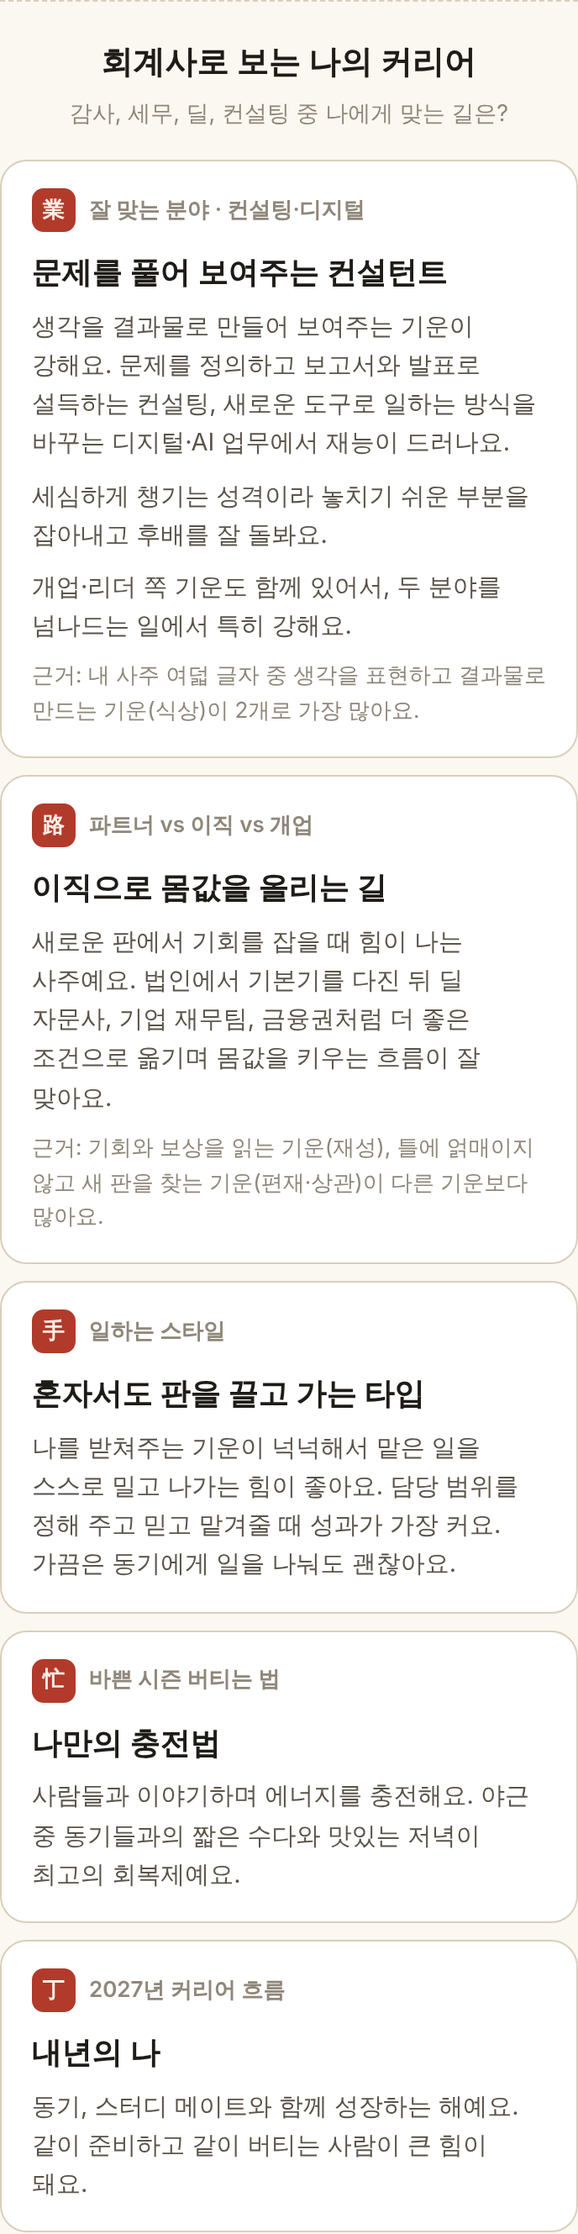
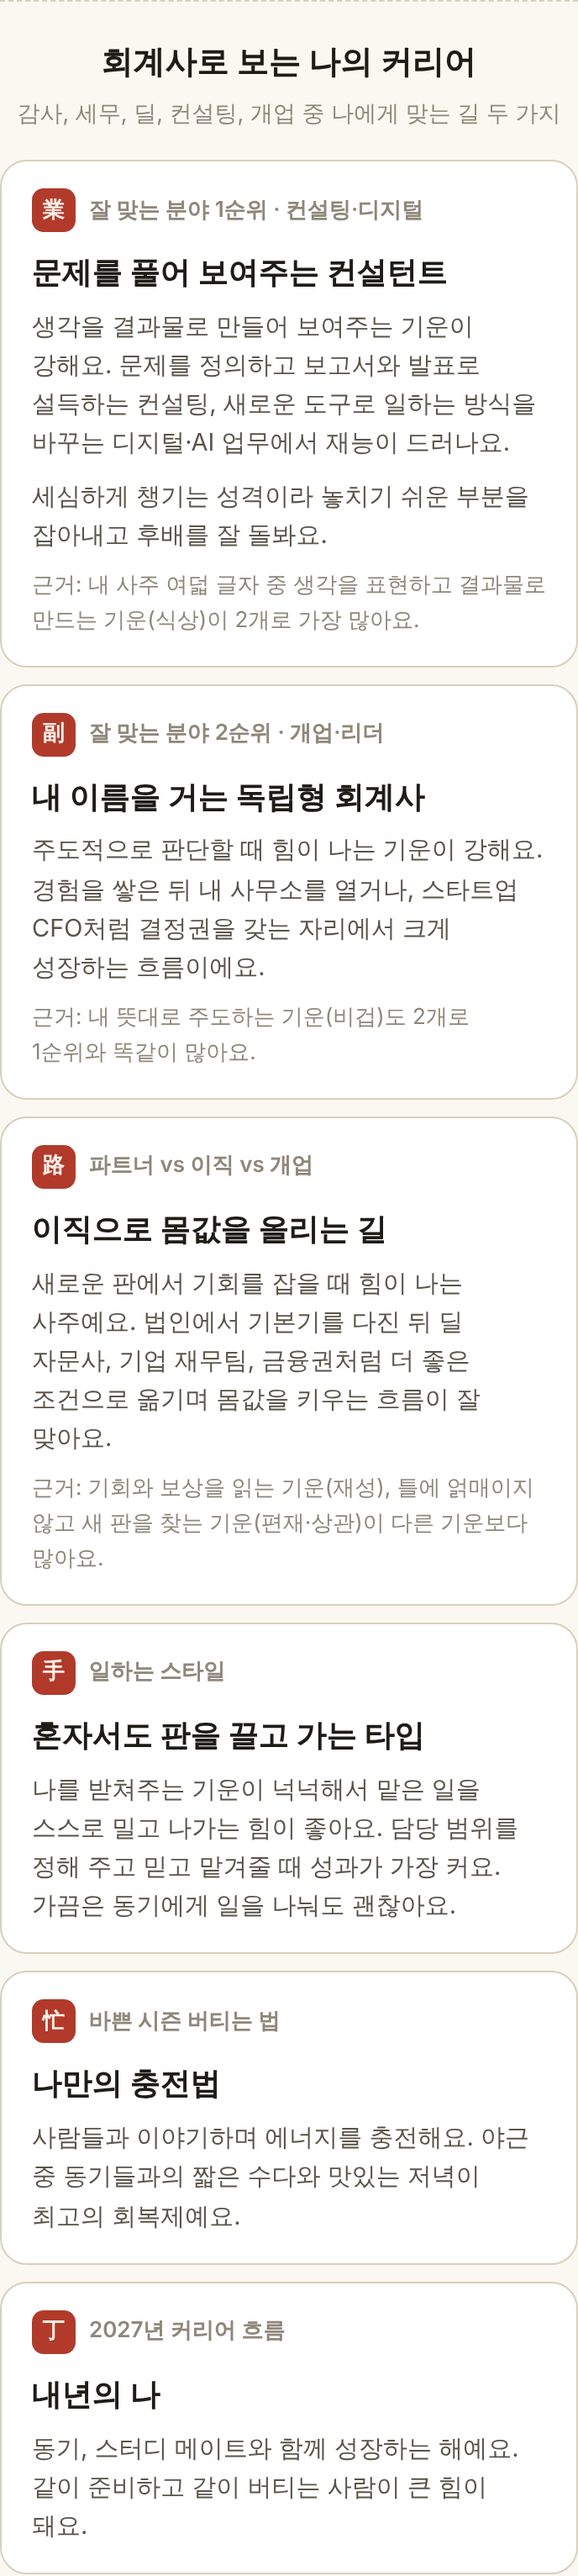
잘 맞는 회계사 분야를 1·2순위 두 개로 보여주기
Claude-Session: https://claude.ai/code/session_012bKZfKa4NxDtXrmtTF5ER5

diff --git a/lib/career.js b/lib/career.js
@@ -154,20 +154,28 @@ function careerPath(saju, counts, gods) {
 export function readCareer(saju) {
   const { counts, gods } = countGroups(saju);
   const ranked = [...ORDER].sort((a, b) => counts[b] - counts[a]);
-  const top = counts[ranked[0]] > 0 ? ranked[0] : '관성';
-  const second = ranked.find((g) => g !== top && counts[g] > 0);
-
-  const field = FIELD[top];
-  const extra = second
-    ? `${FIELD[second].name} 쪽 기운도 함께 있어서, 두 분야를 넘나드는 일에서 특히 강해요.`
-    : '';
+  // 가장 많은 기운과 두 번째로 많은 기운으로 잘 맞는 분야 2개를 고른다
+  const [top, second] = ranked;
+  const fields = [top, second].map((g, i) => ({
+    rank: i + 1,
+    label: FIELD[g].name,
+    title: FIELD[g].title,
+    body: FIELD[g].body,
+    basis: i === 0
+      ? `근거: 내 사주 여덟 글자 중 ${BASIS[g]}이 ${counts[g]}개로 가장 많아요.`
+      : counts[g] === counts[top]
+        ? `근거: ${BASIS[g]}도 ${counts[g]}개로 1순위와 똑같이 많아요.`
+        : counts[g] > 0
+          ? `근거: ${BASIS[g]}이 ${counts[g]}개로 두 번째로 많아요.`
+          : '근거: 1순위 기운을 가장 잘 살려주는 분야예요.',
+  }));
 
   const style = STYLE[strengthOf(saju)];
   const yearGroup = GROUP_OF[getTenGod(saju.dayMaster, '정')];
 
   return {
-    field: { label: field.name, title: field.title, body: field.body, extra, trait: TRAIT[saju.dayMaster],
-      basis: `근거: 내 사주 여덟 글자 중 ${BASIS[top]}이 ${counts[top]}개로 가장 많아요.` },
+    fields,
+    trait: TRAIT[saju.dayMaster],
     style,
     path: careerPath(saju, counts, gods),
     busy: BUSY[STEM_ELEMENT[saju.dayMaster]],

diff --git a/public/index.html b/public/index.html
@@ -720,9 +720,9 @@
         </article>`;
       box.innerHTML = `
         <h3>회계사로 보는 나의 커리어</h3>
-        <p class="sub">감사, 세무, 딜, 컨설팅 중 나에게 맞는 길은?</p>
-        ${card('業', `잘 맞는 분야 · ${c.field.label}`, c.field.title, c.field.body,
-          `<p class="more">${c.field.trait}</p>${c.field.extra ? `<p class="more">${c.field.extra}</p>` : ''}${c.field.basis ? `<p class="basis">${c.field.basis}</p>` : ''}`)}
+        <p class="sub">감사, 세무, 딜, 컨설팅, 개업 중 나에게 맞는 길 두 가지</p>
+        ${c.fields.map((f) => card(f.rank === 1 ? '業' : '副', `잘 맞는 분야 ${f.rank}순위 · ${f.label}`, f.title, f.body,
+          `${f.rank === 1 ? `<p class="more">${c.trait}</p>` : ''}<p class="basis">${f.basis}</p>`)).join('')}
         ${card('路', '파트너 vs 이직 vs 개업', c.path.title, c.path.body, `<p class="basis">${c.path.basis}</p>`)}
         ${card('手', '일하는 스타일', c.style.title, c.style.body)}
         ${card('忙', '바쁜 시즌 버티는 법', '나만의 충전법', c.busy)}
